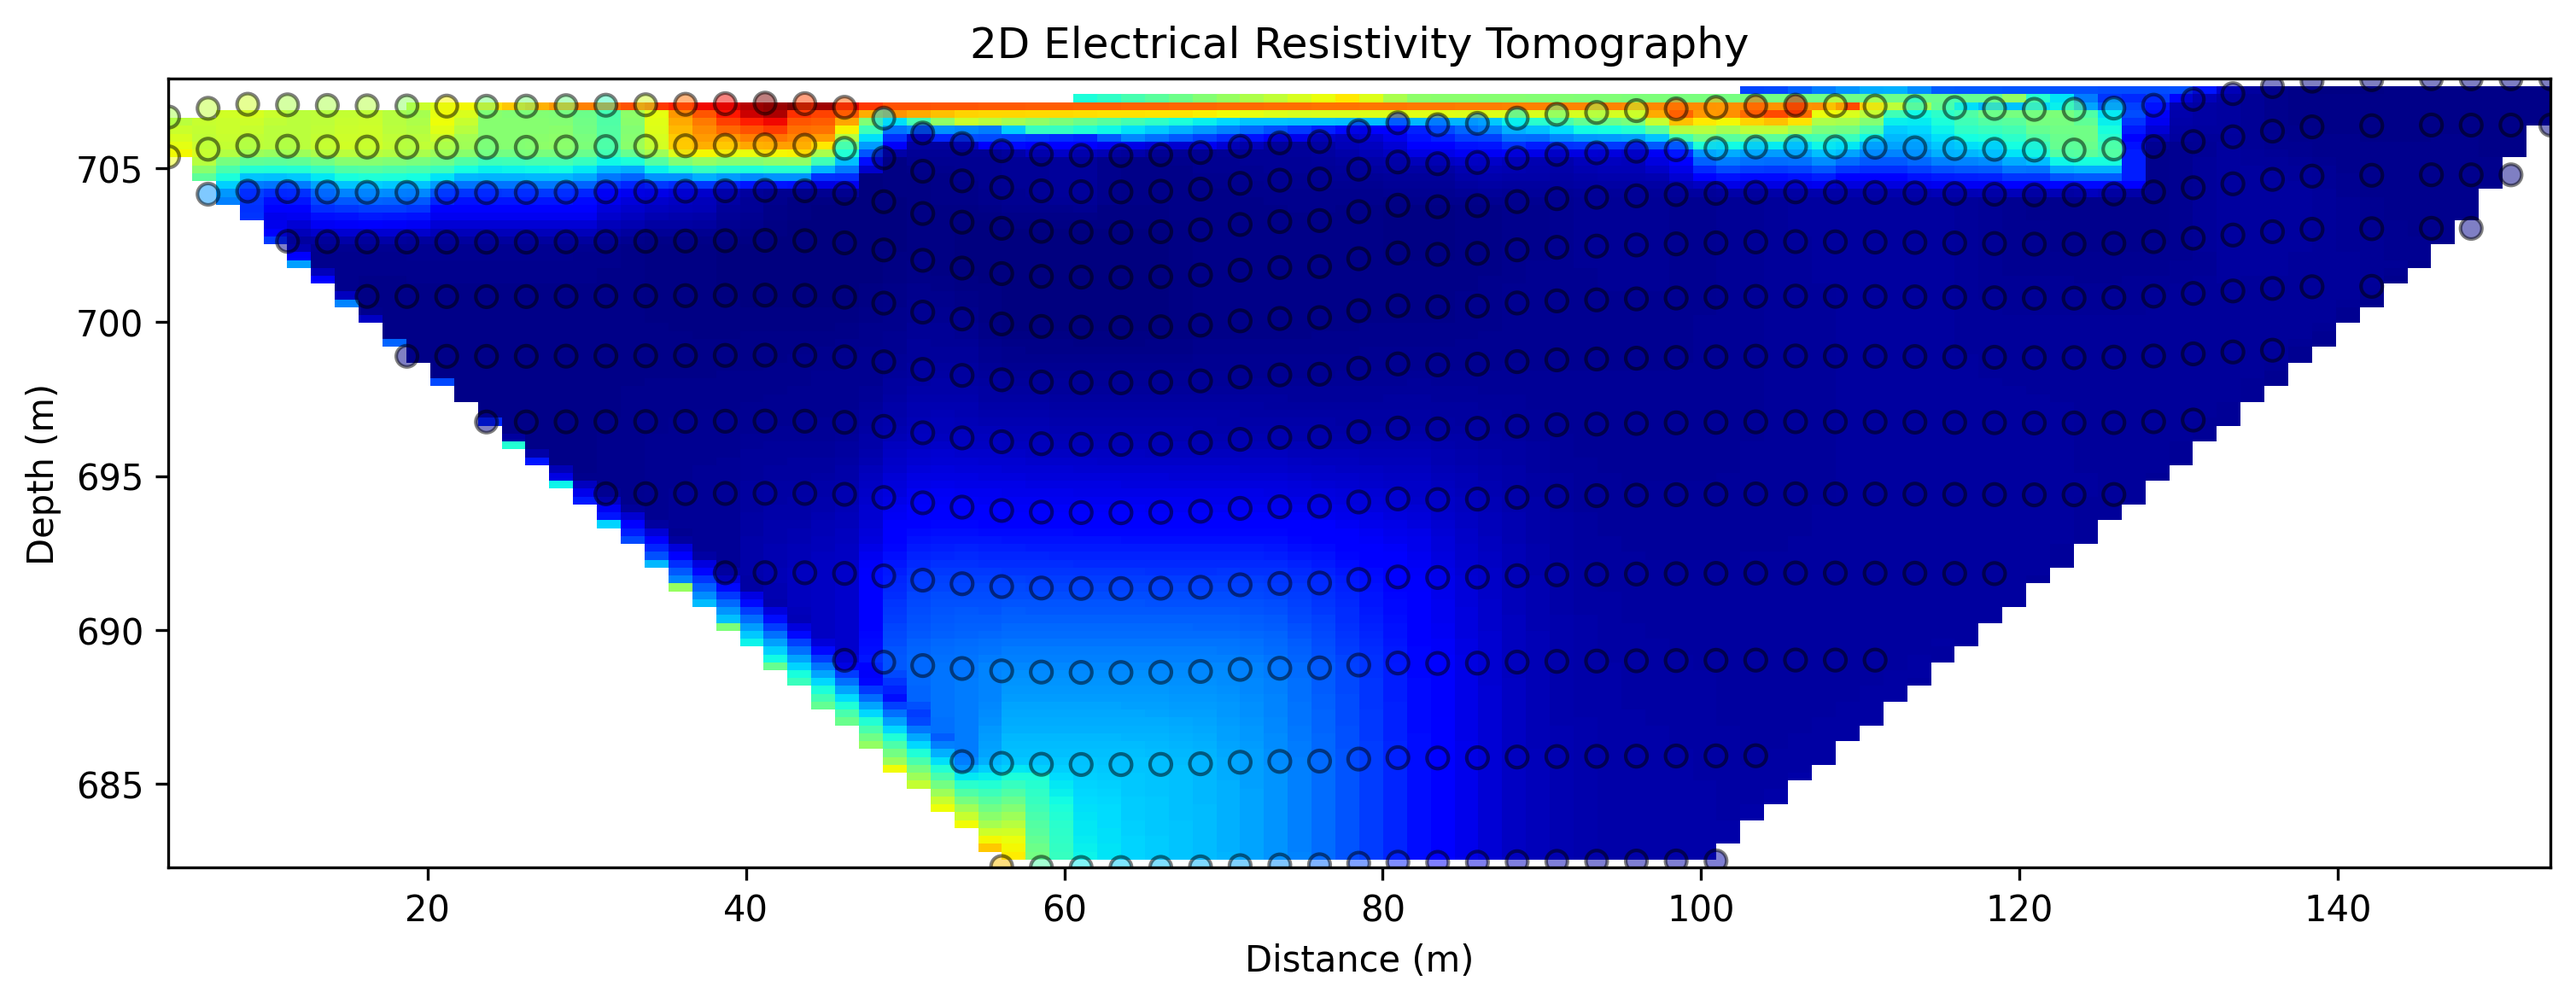
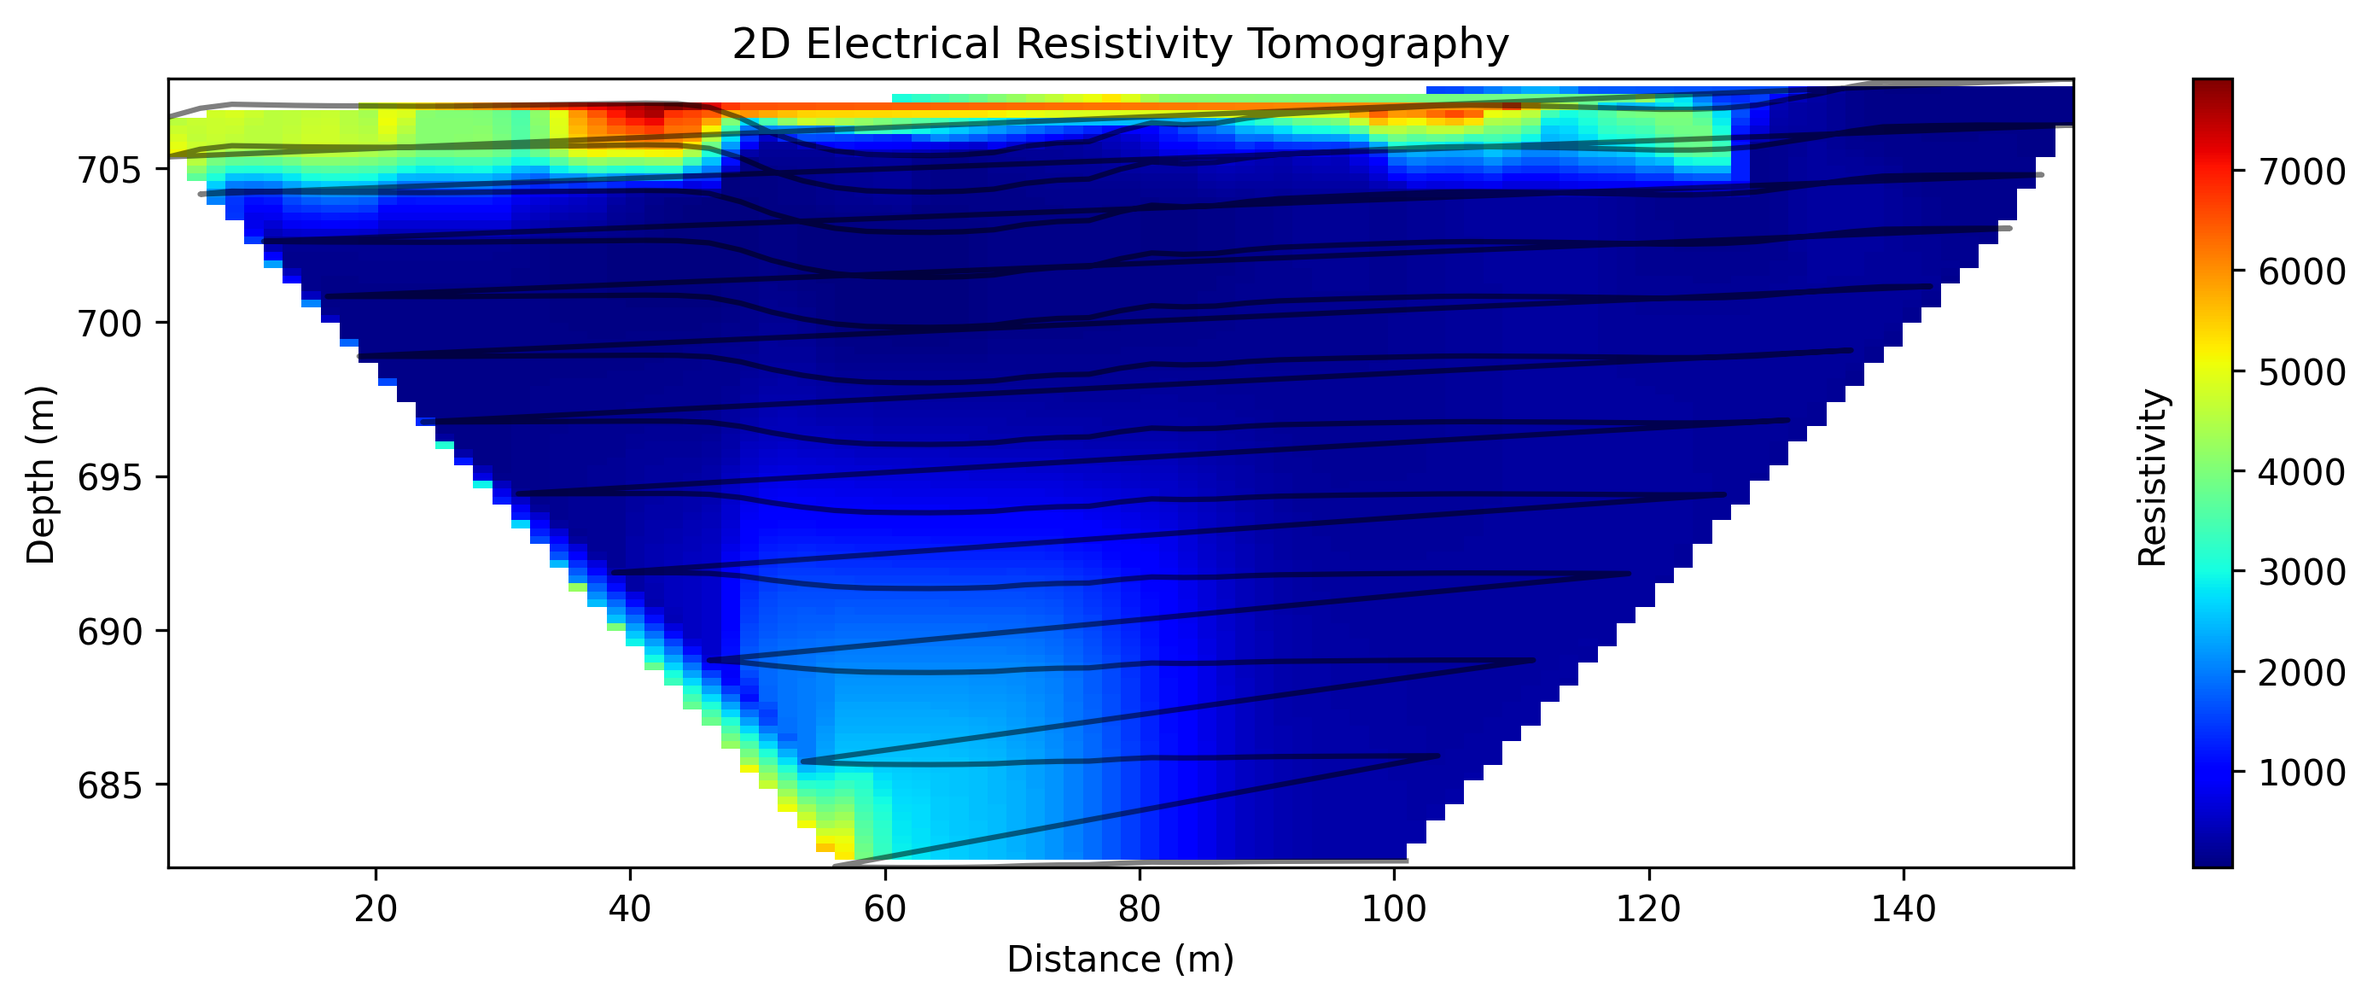
Put back the colorbar & update

diff --git a/L456-ERtomo.py b/L456-ERtomo.py
@@ -5,10 +5,8 @@ import matplotlib.tri as tri
 from matplotlib.patches import Polygon
 from matplotlib.widgets import PolygonSelector
 
-
 # Load data from the .dat file
 data = np.loadtxt('./DATA/data_res.dat')
-
 
 # Extract distance, depth, resistivity, and conductivity
 distance = data[:, 0]
@@ -29,11 +27,19 @@ resistivity_interp = interp_lin(xi, yi)
 
 # Create the tomography plot
 fig, ax = plt.subplots(figsize=(12, 4), num='L456 - ERtomo')
-ax.imshow(resistivity_interp, origin='lower', extent=(min(distance), max(distance), min(depth), max(depth)), aspect='auto', cmap='jet')
+image = ax.imshow(resistivity_interp, origin='lower', extent=(min(distance), max(distance), min(depth), max(depth)), aspect='auto', cmap='jet')
 scatter = ax.scatter(distance, depth, c=resistivity, cmap='jet', edgecolors='k', alpha=0.5, marker='o')
 ax.set_xlabel('Distance (m)')
 ax.set_ylabel('Depth (m)')
 ax.set_title('2D Electrical Resistivity Tomography')
+
+# Add a colorbar
+colorbar = plt.colorbar(scatter)
+colorbar.set_label('Resistivity')
+colorbar.ax.yaxis.set_label_coords(-1.5, 0.5)  # Adjust the position of the label
+
+# Increase the colorbar saturation
+colorbar.solids.set(alpha=1)
 
 # Define a list to store the polygon coordinates
 polygon_coords = []
